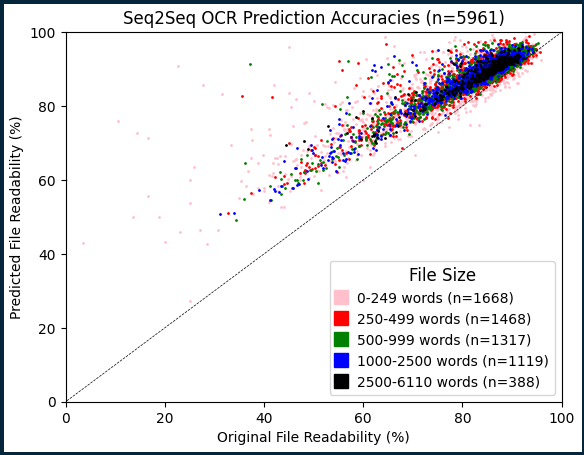
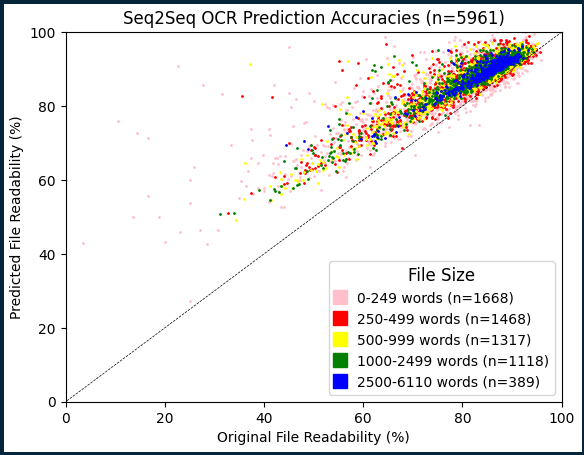
reorganized evaluation scripts to be in main direc

diff --git a/model-v2/test_model_v2.py b/model-v2/test_model_v2.py
@@ -15,7 +15,7 @@ import matplotlib.pyplot as plt
 from tensorflow import keras
 from process_lexicons import clean_text_v2, retrieve_english_lexicon, retrieve_common_lexicon
 from settings_v2 import DATA_PATH, LATENT_DIM, NUM_SAMPLES, BREAK_CHAR
-from settings_v2 import SAVED_MODEL, FREQ_DIRECTORY, DOC_DIRECTORY, PREDICTED_DIRECTORY
+from settings_v2 import SAVED_MODEL, DOC_DIRECTORY, PREDICTED_DIRECTORY
 
 
 def evaluate_model():        
@@ -108,86 +108,97 @@ def evaluate_model():
 
     """ Testing """
 
+    # adds all files to test to pathsToTest
+    pathsToTest = []
+
     for folderpath in os.listdir(DOC_DIRECTORY):
+        # first folder: group of texts to be evaluated
         folder = folderpath.split("/")[-1]
         print(f"\nCURRENT FOLDER: {folder}")
-        if folder == ".DS_Store":
-            continue
         pathlib.Path(PREDICTED_DIRECTORY + folder).mkdir(parents=True, exist_ok=True)
-        pathlib.Path(FREQ_DIRECTORY + folder).mkdir(parents=True, exist_ok=True)
-        for f in os.listdir(DOC_DIRECTORY + folder + "/"):
-            if f == ".DS_Store":
-                continue
+        for f in os.listdir(DOC_DIRECTORY + folder + "/" + "*.txt"):
             # This checks if it's already been processed. If you want to re-run, delete the predicted text file
             if ("P_" + f) in os.listdir(PREDICTED_DIRECTORY + folder + "/"):
                 print(f"File Already Exists: {f}")
                 continue
-            else:
-                doc_text = []
-                textfile = open(f"{DOC_DIRECTORY + folder}/{f}")
-                try:
-                    for line in textfile:
-                        line = line.replace("\n", " ")
-                        line = line.replace("\t", "")
-                        line = line.replace("- ", "")
-                        for word in line.split(" "):
-                            word = clean_text_v2(word)
-                            if len(word) > 0:
-                                doc_text.append(word)
-                except:
-                    print(f"Unicode Error: {f}")
-                    continue
-
-                num_encoder_tokens = encoder_inputs.shape[2]
-
-                couching = False # couching bool tracks if the next word has already been included
-
-                translated_doc = []
-                for i in range(len(doc_text)):
-                    # next word has been included; skips it
-                    if couching:
-                        couching = False
+            pathsToTest.append(DOC_DIRECTORY + folder + "/" + f)
+        for item in os.listdir(DOC_DIRECTORY + folder + "/"):
+            if os.path.isdir(item):
+                pathlib.Path(PREDICTED_DIRECTORY + folder + "/" + item).mkdir(parents=True, exist_ok=True)
+                # if it is another folder, adds all files in there to pathsToTest
+                for f2 in os.listdir(DOC_DIRECTORY + folder + "/" + item + "/"):
+                    if ("P_" + f2) in os.listdir(PREDICTED_DIRECTORY + folder + "/"):
+                        print(f"File Already Exists: {f2}")
                         continue
+                    pathsToTest.append(DOC_DIRECTORY + folder + "/" + item + "/" + f2)
+    
 
-                    word = doc_text[i]
+    while (len(pathsToTest) > 0):
+        doc_text = []
+        textfile = open(pathsToTest.pop(0), "r")
+        try:
+            for line in textfile:
+                line = line.replace("\n", " ")
+                line = line.replace("\t", "")
+                line = line.replace("- ", "")
+                for word in line.split(" "):
+                    word = clean_text_v2(word)
+                    if len(word) > 0:
+                        doc_text.append(word)
+        except:
+            print(f"Unicode Error: {f}")
+            continue
 
-                    # if next word is recognizable, does not alter it
-                    if word in english_words:
-                        translated_doc.append(word)
-                    # else if the next two entries make a word, couches them
-                    elif ((i != len(doc_text) - 1) and ((word + doc_text[i+1]) in english_words)):
-                        translated_doc.append(word + doc_text[i+1])
-                        couching = True
-                    else:
-                        # else if the word can be split up into valid words (i.e., missing spaces between words)
-                        split_word = check_compound(word, common_lexicon)
-                        if (len(split_word) != len(word)):
-                            translated_doc.append(split_word)
-                        # if those pre-checks don't pass, feeds the word into the seq2seq model
+        num_encoder_tokens = encoder_inputs.shape[2]
+
+        couching = False # couching bool tracks if the next word has already been included
+
+        translated_doc = []
+        for i in range(len(doc_text)):
+            # next word has been included; skips it
+            if couching:
+                couching = False
+                continue
+
+            word = doc_text[i]
+
+            # if next word is recognizable, does not alter it
+            if word in english_words:
+                translated_doc.append(word)
+            # else if the next two entries make a word, couches them
+            elif ((i != len(doc_text) - 1) and ((word + doc_text[i+1]) in english_words)):
+                translated_doc.append(word + doc_text[i+1])
+                couching = True
+            else:
+                # else if the word can be split up into valid words (i.e., missing spaces between words)
+                split_word = check_compound(word, common_lexicon)
+                if (len(split_word) != len(word)):
+                    translated_doc.append(split_word)
+                # if those pre-checks don't pass, feeds the word into the seq2seq model
+                else:
+                    try:
+                        word_data = np.zeros((len(input_texts), max_encoder_seq_length, num_encoder_tokens), dtype="float32")
+                        for t, char in enumerate(word):
+                            word_data[0, t, input_token_index[char]] = 1.0
+                        word_data[0, t + 1 :, input_token_index[" "]] = 1.0
+                        decoded_word = ""
+                        input_seq = word_data[0:1]
+                        decoded_word += decode_sequence(input_seq)
+                        decoded_word = decoded_word.strip("\n")
+                        # only replaces original if model outputs a valid English word
+                        if decoded_word in english_words:
+                            translated_doc.append(decoded_word)
                         else:
-                            try:
-                                word_data = np.zeros((len(input_texts), max_encoder_seq_length, num_encoder_tokens), dtype="float32")
-                                for t, char in enumerate(word):
-                                    word_data[0, t, input_token_index[char]] = 1.0
-                                word_data[0, t + 1 :, input_token_index[" "]] = 1.0
-                                decoded_word = ""
-                                input_seq = word_data[0:1]
-                                decoded_word += decode_sequence(input_seq)
-                                decoded_word = decoded_word.strip("\n")
-                                # only replaces original if model outputs a valid English word
-                                if decoded_word in english_words:
-                                    translated_doc.append(decoded_word)
-                                else:
-                                    translated_doc.append(word)
-                            except:
-                                print(f"Can't read word in {f}: {word}")
-                                translated_doc.append("...")
+                            translated_doc.append(word)
+                    except:
+                        print(f"Can't read word in {f}: {word}")
+                        translated_doc.append("...")
 
 
-                predicted_doc = open(PREDICTED_DIRECTORY + folder + "/P_" + f, "w+")
-                predicted_doc.write(" ".join(translated_doc))
-                predicted_doc.close()
-                print("File Processed: " + f)
+        predicted_doc = open(PREDICTED_DIRECTORY + folder + "/P_" + f, "w+")
+        predicted_doc.write(" ".join(translated_doc))
+        predicted_doc.close()
+        print("File Processed: " + f)
 
 
 def check_compound(word, common_lexicon):

diff --git a/graph_models.py b/graph_models.py
@@ -1,10 +1,7 @@
 """
 FUNCTION: graph_models.py
 -------------------------
-Graphs the models used in the paper.
-
-NOTE: Several graphs are rendered with matplotlib's LaTeX rendering. For instructions 
-on how to install LaTeX rendering, see: https://matplotlib.org/stable/tutorials/text/usetex.html
+Graphs the models used in correction.
 """
 
 import sys
@@ -12,13 +9,12 @@ import pickle
 import numpy as np
 import matplotlib
 import matplotlib.pyplot as plt
-from settings_testing import FIGURE_DIRECTORY, RECOG_EVAL_DIRECTORY
+from settings import FIGURE_DIRECTORY, RECOG_EVAL_DIRECTORY
 
 def main():
    graph("accuracy-scatter", "basic")
    graph("accuracy-scatter", "size-color")
-   graph("accuracy-regression", "basic")
-   graph("accuracy-regression", "size-color")
+   graph("regression", "basic")
    graph("flat-change", "basic")
    graph("flat-change", "size-color")
 
@@ -34,7 +30,7 @@ class SizeBucket:
       self.contents = []  # arr containing data of files in group
 
 
-def graph(graphType: str, graphLevel: str) -> None:
+def graph(graphType, graphLevel="basic") -> None:
    """
    Graphs evaluated models. To evaluate models, use accuracy_counter.py
 
@@ -62,21 +58,20 @@ def graph(graphType: str, graphLevel: str) -> None:
    perc_change = np.array(d["PERC"]) * 100
    file_size = d["SIZE"]
 
-   if (graphLevel == "size-color"):
-      # groups files by word count
-      xs_files = SizeBucket(0, 249, "pink")
-      small_files = SizeBucket(250, 499, "red")
-      med_files = SizeBucket(500, 999, "green")
-      large_files = SizeBucket(1000, 2500, "blue")
-      xl_files = SizeBucket(2500, max(file_size), "black")
+   # groups files by word count
+   xs_files = SizeBucket(0, 249, "pink")
+   small_files = SizeBucket(250, 499, "red")
+   med_files = SizeBucket(500, 999, "yellow")
+   large_files = SizeBucket(1000, 2499, "green")
+   xl_files = SizeBucket(2500, max(file_size), "blue")
 
-      ordered_buckets = [xs_files, small_files, med_files, large_files, xl_files]
+   ordered_buckets = [xs_files, small_files, med_files, large_files, xl_files]
 
-      for i in range(total_files):
-         for bucket in ordered_buckets:
-            if (file_size[i] < bucket.high):
-               bucket.contents.append(zip_percent[i])
-               break
+   for i in range(total_files):
+      for bucket in ordered_buckets:
+         if (file_size[i] < bucket.high):
+            bucket.contents.append(zip_percent[i])
+            break
 
 
    # Scatter plot of orig accuracy vs pred accuracy
@@ -104,7 +99,7 @@ def graph(graphType: str, graphLevel: str) -> None:
    
 
    # Linear regressions of pred accuracy as a function of orig accuracy
-   elif (graphType == "accuracy-regression"):
+   elif (graphType == "regression"):
       plt.plot([-100, 200], [-100, 200], color="#000000", linestyle="dashed", linewidth="0.5")
       plt.xlabel("Original File Readability (%)")
       plt.ylabel("Predicted File Readability (%)")
@@ -113,19 +108,17 @@ def graph(graphType: str, graphLevel: str) -> None:
       plt.xticks([0, 20, 40, 60, 80, 100])
       plt.yticks([0, 20, 40, 60, 80, 100])
 
-      if (graphLevel == "basic"):
-         m, b = np.polyfit(*zip(*zip_percent), 1)
-         plt.plot(np.arange(0, 100, 0.1), m * np.arange(0, 100, 0.1) + b, color="black")
-         plt.plot([], c="black", marker="s", markersize=10, label="y={:.2f}x+{:.2f}".format(m, b))
-         legend = plt.legend(loc="lower right", fancybox=True)
+      m, b = np.polyfit(*zip(*zip_percent), 1)
+      plt.plot(np.arange(0, 100, 0.1), m * np.arange(0, 100, 0.1) + b, color="black")
+      plt.plot([], c="black", marker="s", markersize=10, label=f"All Files ({'y={:.2f}x+{:.2f}'.format(m, b)})")
+      legend = plt.legend(loc="lower right", fancybox=True)
       
-      elif (graphLevel == "size-color"):
-         for bucket in ordered_buckets:
-            m, b = np.polyfit(*zip(*bucket.contents), 1)
-            plt.plot(np.arange(0, 100, 0.1), m * np.arange(0, 100, 0.1) + b, color=bucket.color)
-            plt.plot([], c=bucket.color, marker="s", markersize=10, label=f"{bucket.low}-{bucket.high} words ({'y={:.2f}x+{:.2f}'.format(m, b)})")
-         legend = plt.legend(loc="lower right", title="File Size", fancybox=True)
-         legend.get_title().set_fontsize('12')  # adjusts legend fontsizes
+      for bucket in ordered_buckets:
+         m, b = np.polyfit(*zip(*bucket.contents), 1)
+         plt.plot(np.arange(0, 100, 0.1), m * np.arange(0, 100, 0.1) + b, color=bucket.color, linestyle="dashed")
+         plt.plot([], c=bucket.color, marker="s", markersize=10, label=f"{bucket.low}-{bucket.high} words ({'y={:.2f}x+{:.2f}'.format(m, b)})")
+      legend = plt.legend(loc="lower right", title="File Size", fancybox=True)
+      legend.get_title().set_fontsize('12')  # adjusts legend fontsizes
 
       
       plt.setp(plt.gca().get_legend().get_texts(), fontsize='10')
@@ -154,7 +147,10 @@ def graph(graphType: str, graphLevel: str) -> None:
          plt.setp(plt.gca().get_legend().get_texts(), fontsize='10')
 
    # saves graph to file
-   fig.savefig(f"{FIGURE_DIRECTORY}{graphType}-{graphLevel}.png", bbox_inches="tight", edgecolor=fig.get_edgecolor())
+   if (graphType == "regression"):
+      plt.savefig(f"{FIGURE_DIRECTORY}{graphType}.png", bbox_inches="tight", edgecolor=fig.get_edgecolor())
+   else:
+      fig.savefig(f"{FIGURE_DIRECTORY}{graphType}-{graphLevel}.png", bbox_inches="tight", edgecolor=fig.get_edgecolor())
    plt.show()
    return
 
@@ -184,7 +180,7 @@ def checkParams(graphType, graphLevel):
    """
    Makes sure the params passed into the graph() function are valid.
    """
-   possTypes = ["accuracy-scatter", "accuracy-regression", "flat-change"]
+   possTypes = ["accuracy-scatter", "regression", "flat-change"]
    possLevels = ["basic", "size-color"]
    if graphType not in possTypes:
       print("For the graph type, please specify one of the following: ", ",".join(possTypes))

diff --git a/settings.py b/settings.py
@@ -1,0 +1,27 @@
+"""
+settings.py
+-----------
+This file contains the settings for evaluating versions of the trained model
+
+"""
+# adjusting directories so that scripts can run, regardless of CWD
+dirname = __file__[:-len("settings.py")]
+
+
+"""
+Directory Navigation
+"""
+# INFERENCE RESULTS
+DOC_DIRECTORY = dirname + "testing-and-evaluation/text-to-predict/"  # text to predict
+PREDICTED_DIRECTORY = dirname + "testing-and-evaluation/predicted-text/"  # contains model results
+FIGURE_DIRECTORY = dirname + "testing-and-evaluation/figures/"  # contains figures
+
+# ENGLISH LEXICONS
+COHA_DIRECTORY = dirname + "source-data/COHA-sample-data/"  # COHA samples
+ENGLISH_LEXICON = dirname + "source-data/english-hashset.txt"  # words gathered from COHA, no repeats
+ENGLISH_LEXICON_PICKLED = dirname + "source-data/english-hashset.pkl"
+COMMON_ENG_LEXICON = dirname + "source-data/google-10000-english.txt"  # Google's 10,000 common English words
+COMMON_ENG_LEXICON_PICKLED = dirname + "/source-data/google-common-english.pkl"
+
+# TESTING RESULTS
+RECOG_EVAL_DIRECTORY = dirname + "testing-and-evaluation/recognition-eval/"

diff --git a/model-v2/settings_v2.py b/model-v2/settings_v2.py
@@ -50,5 +50,4 @@ COMMON_ENG_LEXICON_PICKLED = dirname + "../source-data/google-common-english.pkl
 
 # GRAPHS AND REPORTS
 FIGURE_DIRECTORY = dirname + "/../testing-and-evaluation/figures/"  # directory to store figures
-FREQ_DIRECTORY = dirname + "/../testing-and-evaluation/word-freq-reports/"  # word frequency plots
 
